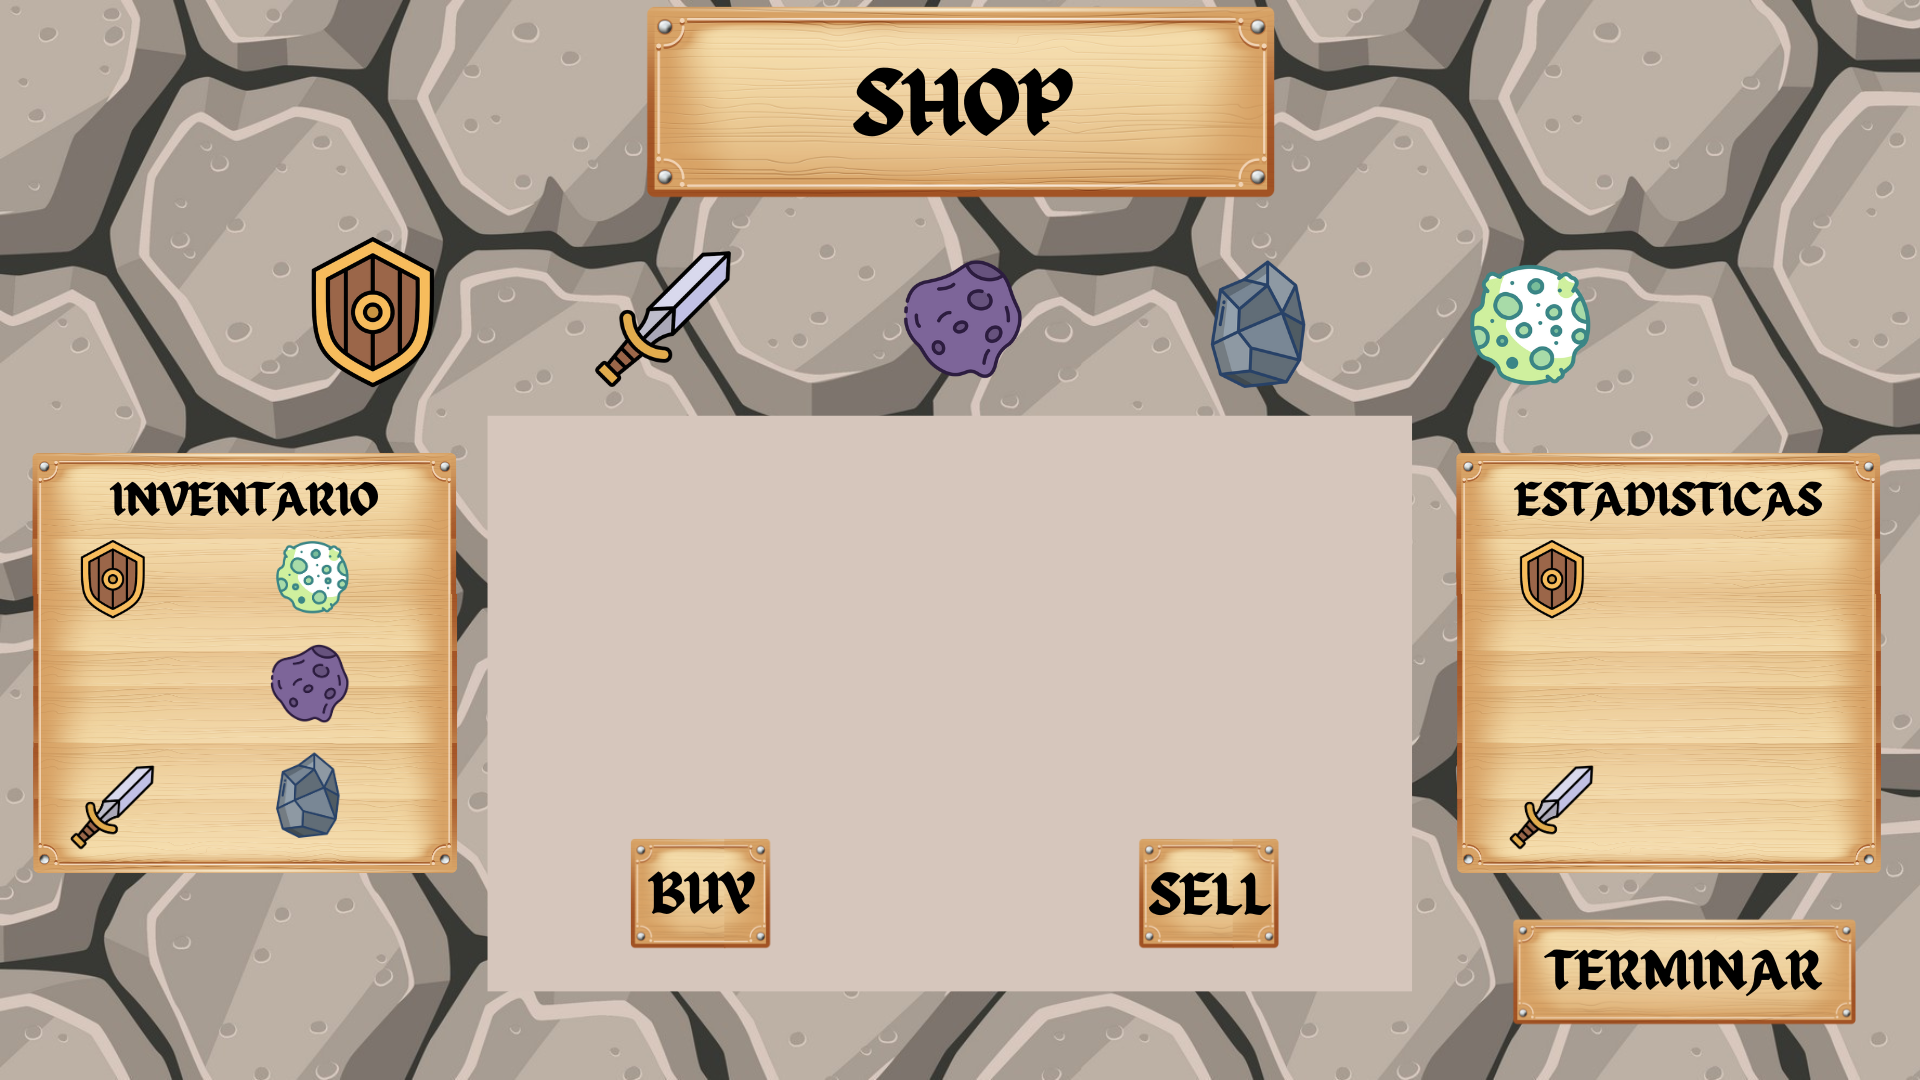
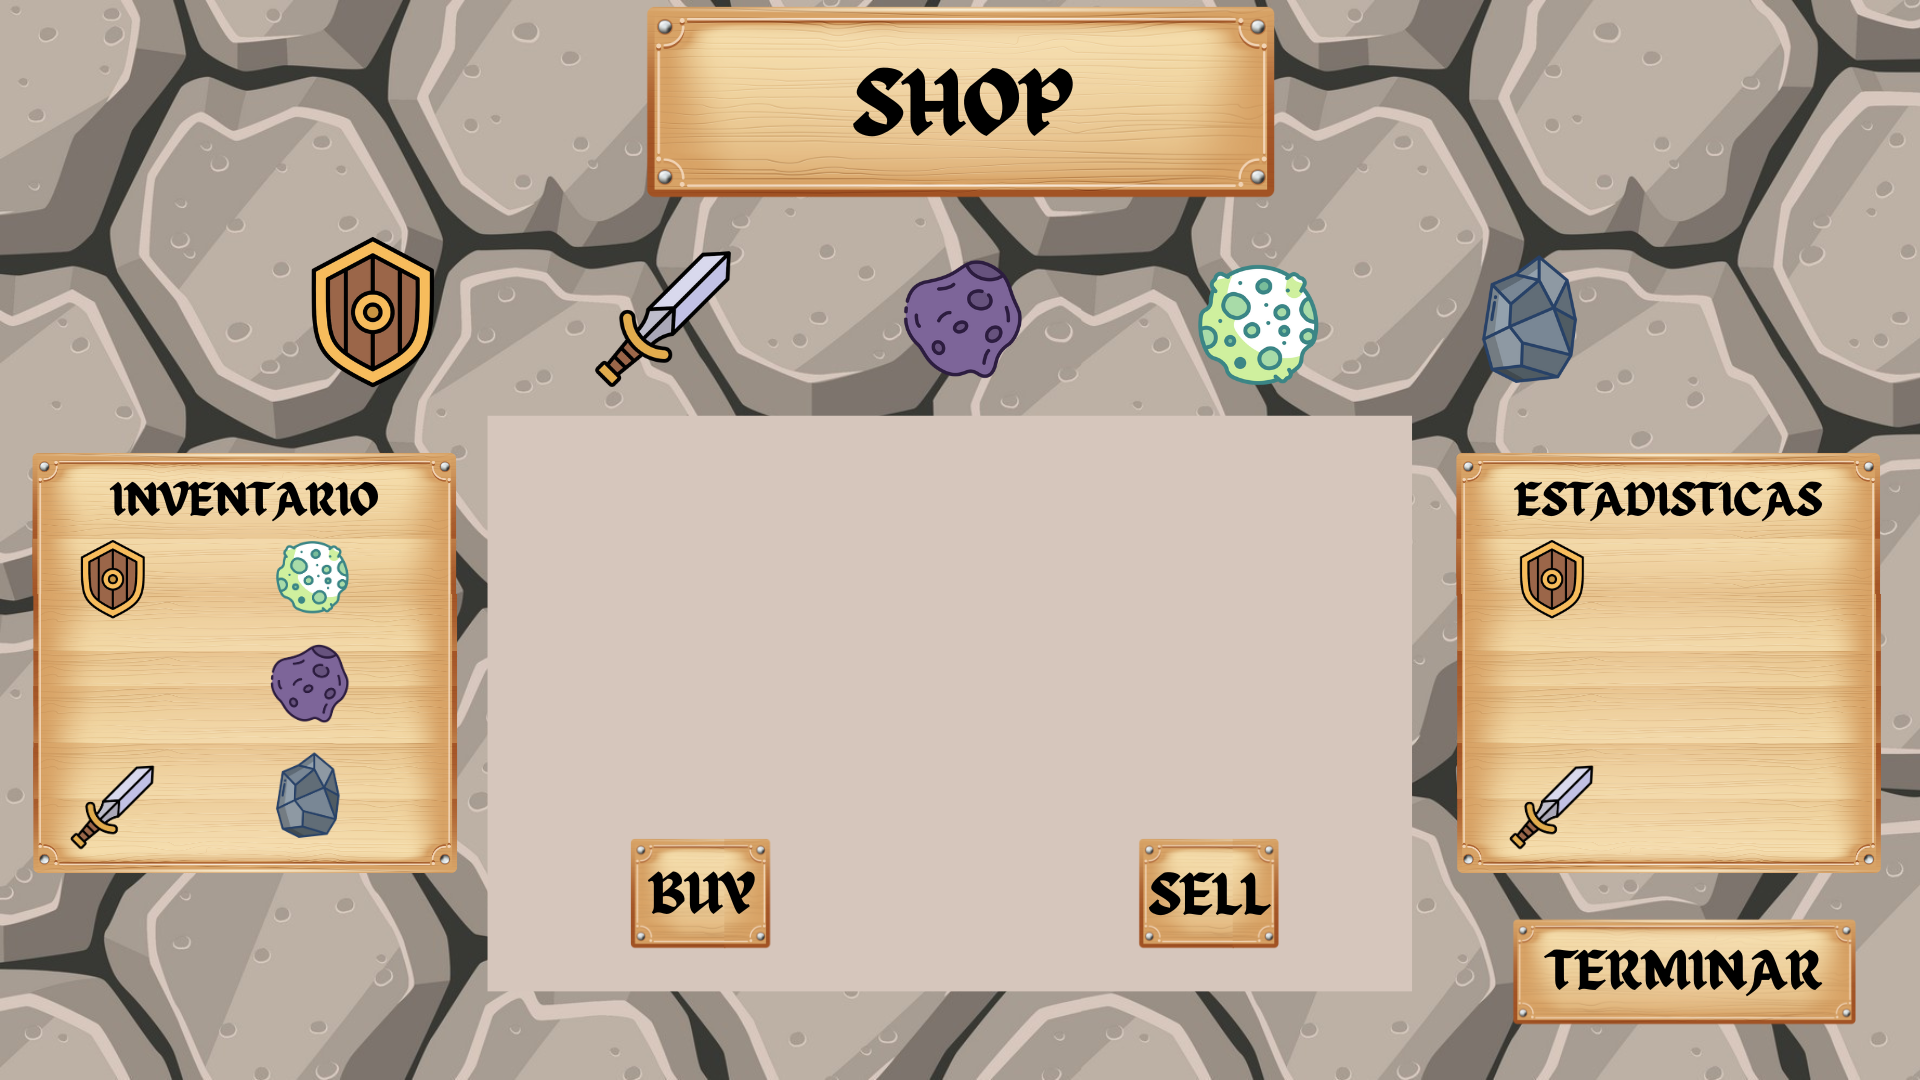
Conexion de pausa con juego, pantalla de ganador y se agrego el calculo de ganador. (Las pantallas fueron modificadas por javier)

Changed region(s): [[0.75, 0.2444, 0.8438, 0.3667], [0.625, 0.2444, 0.6875, 0.3667]]

diff --git a/gameScreens.py b/gameScreens.py
@@ -1,4 +1,5 @@
-import drawFunctions, pygame
+import drawFunctions, pygame, proporciones, params,scoreBoard,math, sys
+from button import Button
 def pantallaEmpiezaJuego(screen):
     drawFunctions.backgroundDraw(screen,'Pantallas/juegoPrev.png')
     run = True
@@ -11,3 +12,140 @@ def pantallaEmpiezaJuego(screen):
                 if event.key == pygame.K_SPACE:
                     run = False
         pygame.display.update()
+        
+def controlesPausa(screen):
+    run = True
+    background = pygame.Surface((screen.get_width(),screen.get_height()))
+    drawFunctions.backgroundDraw(background,"Pantallas/ControlesPausa.png")
+    while run:
+        for event in pygame.event.get():
+            if event.type == pygame.QUIT:
+                run = False
+                pygame.quit()
+            if event.type == pygame.KEYDOWN:
+                if event.key == pygame.K_ESCAPE:
+                    run = False
+        screen.blit(background,(0,0))
+        pygame.display.update()
+    
+def pauseScreen(screen):
+    run = True
+    pantalla = 5
+    background = pygame.Surface((screen.get_width(),screen.get_height()))
+    drawFunctions.backgroundDraw(background,"Pantallas/Pausa.png")
+    bttns = crearBotonPausa(proporciones.listaProporciones)
+    while run:
+        for event in pygame.event.get():
+            if event.type == pygame.QUIT:
+                pygame.quit()
+                sys.exit()
+            #checkResize(event)
+            for btns in bttns:
+                for btn in btns:
+                    if btn.check_click(event):
+                        #controles menu
+                        if pantalla == 5:
+                            if btn.item == 15:
+                                print('Vuelve al juego')
+                                return None
+                            elif btn.item == 16:
+                                print('Vuelve al menu')
+                                return 4
+                            elif btn.item == 17:
+                                controlesPausa(screen)
+                                print('Controles pausa')
+                                #return 1
+                                pass
+                            elif btn.item == 18:
+                                print('salir')
+                                return -1
+        screen.blit(background,(0,0))
+        pygame.display.update()
+    
+def ganadorScreen(screen, colorGanador):
+    run = True
+    tanqueGanador = imgTankWinner(colorGanador,0.07)
+    background = pygame.Surface((screen.get_width(),screen.get_height()))
+    drawFunctions.backgroundDraw(background,"Pantallas/Ganador.png")
+    bttns = crearBotonPausa(proporciones.listaProporciones)
+    pantalla = 2
+    while run:
+        for event in pygame.event.get():
+            if event.type == pygame.QUIT:
+                pygame.quit()
+                sys.exit()
+            #checkResize(event)
+            for btns in bttns:
+                for btn in btns:
+                    if btn.check_click(event):
+                        #controles menu
+                       if pantalla == 2:
+                            if btn.item == 2:
+                                ##print('Volver al menu')
+                                return 4
+                                
+                            elif btn.item == 3:
+                                ##print('Cierra el juego')
+                                return -1
+        screen.blit(background,(0,0))
+        screen.blit(tanqueGanador.surfaceTank,(screen.get_width()*0.46,screen.get_height()*0.65))
+        pygame.display.update()
+            
+def crearBotonPausa(listaProporciones):
+    #resizeButtons
+    listaBotonesPantallas = []
+    pantalla = []
+    ID = 0
+    x = 0
+    print(x)
+    for screen in listaProporciones:
+        for prop in screen:
+            boton = Button(prop[x],prop[x+1],prop[x+2],prop[x+3],ID)
+            pantalla.append(boton)
+            ID+=1
+        listaBotonesPantallas.append(pantalla)
+        pantalla=[]
+    return listaBotonesPantallas
+
+class imgTankWinner:
+    def __init__(self,color,tankProportion):
+        self.WIDTH = params.size*16
+        self.HEIGHT = params.size*9
+        self.xpos = 0
+        self.ypos = 0
+        self.angulo = 0
+        self.color = color
+        self.xCanon1 = 0
+        self.yCanon1 = 0
+        self.xCanon2 = 0
+        self.yCanon2 = 0
+
+        self.tankProportion = tankProportion
+        self.surfaceTank = pygame.Surface((self.WIDTH*self.tankProportion, self.HEIGHT*self.tankProportion))
+        self.x = int(self.surfaceTank.get_width()*0.5)
+        self.y = int(self.surfaceTank.get_height()*0.8)
+        self.width = int(self.surfaceTank.get_width()*0.55)
+        self.height = int(self.surfaceTank.get_height()*0.55)
+        self.alphaColor = (255,0,255)
+        self.surfaceTank.fill(self.alphaColor)
+        self.surfaceTank.set_alpha()
+        self.surfaceTank.set_colorkey(self.alphaColor)
+        self.longitud = int(self.surfaceTank.get_width()*0.12) #largo del cañon
+        self.xCanon1 =self.x #coordenadas del cañon
+        self.yCanon1  = (self.y - self.height) - self.height/4
+        self.xCanon2 = (self.xCanon1 + self.longitud * math.cos(math.radians(self.angulo)))
+        self.yCanon2 = (self.yCanon1 - self.longitud * math.sin(math.radians(self.angulo)))
+        self.draw_tank()
+        
+    def draw_tank(self):
+        pygame.draw.polygon(self.surfaceTank, self.color, ((self.x, self.y), (self.x - self.width/2, self.y), (self.x - self.width/2, self.y - self.height),(self.x + self.width/2, self.y - self.height),(self.x + self.width/2, self.y),(self.x, self.y))) #rectangulo inicial
+        pygame.draw.polygon(self.surfaceTank, self.color, ((self.x, self.y - self.height), (self.x - self.width/3, self.y - self.height), (self.x - self.width/3, (self.y- self.height) - self.height/3),(self.x + self.width/3, (self.y- self.height) - self.height/3),(self.x + self.width/3, (self.y- self.height)))) #rectangulo donde estara el cañon
+        pygame.draw.circle(self.surfaceTank, self.color, ((self.x - self.width/2, self.y+1 - self.height/2)), self.height/2 + 1) #circunferencia de la izquierda
+        pygame.draw.circle(self.surfaceTank, self.color, ((self.x + self.width/2, self.y+1 - self.height/2)), self.height/2 + 1) #circunferencia de la derecha
+        pygame.draw.line(self.surfaceTank, self.color, (self.xCanon1, self.yCanon1), (self.xCanon2, self.yCanon2), int(self.surfaceTank.get_height()*0.04)) #cañon
+
+# pygame.init()
+# width = params.size*16
+# height = params.size*9
+# screen = pygame.display.set_mode((width,height))
+# print(ganadorScreen(screen,(255,0,0)))

diff --git a/functions.py b/functions.py
@@ -1,4 +1,4 @@
-import math, params, player, nTank, random, runGame, gameScreens, drawFunctions
+import math, params, player, nTank, random, runGame, gameScreens, drawFunctions, scoreBoard
 import pygame,sys,runShop
 from button import Button
 from createMap import Map
@@ -315,6 +315,7 @@ def run(img,propBotonesPantalla,pantalla):
             
         elif pantalla == 12:
             ##print('Juego')
+            exitCmd = 0
             window = params.screen
             partidosActuales = 0
             listaJugadores = []
@@ -329,14 +330,50 @@ def run(img,propBotonesPantalla,pantalla):
                 runShop.openShop(listaJugadores,ia)
                 gameScreens.pantallaEmpiezaJuego(window)
                 game = runGame.gameLogic(window,listaJugadores,params.mapa)
-                game.run(clock)
+                exitCmd = game.run(clock)
+                if exitCmd == -1:
+                    return -1
+                if exitCmd == 4:
+                    return 4
                 partidosActuales += 1
-            return 4
+            actualizarKDAFinal(listaJugadores)
+            summary = scoreBoard.scoreBoardShow(listaJugadores,window, devolverColores(variableReseteo),"Pantallas/scorePartidaGlobal.png",True)
+            summary.sb_run()
+            return gameScreens.ganadorScreen(window,variableReseteo[determinarGanador(listaJugadores)][0])
+        
         else:
             ##print(pantalla)
             params.screen.blit(background, (0, 0))
             pygame.display.flip()
             clock.tick(60)
+
+def determinarGanador(listaJugadores):
+    listaKD = []
+    mayorBajas = listaJugadores[0]
+    for i in range(len(listaJugadores)):
+        if listaJugadores[i].generalkda[0] > mayorBajas.generalkda[0]:
+            mayorBajas = listaJugadores[i]
+    for i in range(len(listaJugadores)):
+        if listaJugadores[i].generalkda[0] == mayorBajas.generalkda[0]:
+            listaKD.append(listaJugadores[i])
+    for i in range(len(listaKD)):
+        if listaKD[i].generalkda[1] < mayorBajas.generalkda[1]:
+            mayorBajas = listaKD[i]
+    for i in range(len(listaJugadores)):
+        if mayorBajas == listaJugadores[i]:
+            return i
+def devolverColores(listaColores):
+    colores = []
+    for i in range(len(listaColores)):
+        colores.append(listaColores[i][0])
+    return colores
+
+def actualizarKDAFinal(listaJugadores):
+    for i in range(len(listaJugadores)):
+        listaJugadores[i].generalkda[0] += listaJugadores[i].kda[0]
+        listaJugadores[i].generalkda[1] += listaJugadores[i].kda[1]
+        listaJugadores[i].kda[0] = 0
+        listaJugadores[i].kda[1] = 0
 
 def crearButtons(listaProporciones):
     #resizeButtons

diff --git a/runGame.py b/runGame.py
@@ -1,5 +1,5 @@
 from random import randint
-import pygame,nTank,nTerrain,sys, params, drawFunctions, player, random, playerPhysics, ninfoBlock, functions, nProyectil, scoreBoard, npowerBar
+import pygame,nTank,nTerrain,sys, params, drawFunctions, player, random, playerPhysics, ninfoBlock, functions, nProyectil, scoreBoard, npowerBar, gameScreens
 
 class gameLogic:
     
@@ -123,15 +123,15 @@ class gameLogic:
         if len(self.listaJugadores) == 1:
             #print("jugador gano")
             #mostrar pantalla de que el jugador gano
-            #summary = scoreBoard.scoreBoard(self.listaPlayers,self.screen, self.coloresJuagadores,"imgs/pantallas/scorePartida.png",False)
-            #summary.sb_run()
-            #summary = None
+            summary = scoreBoard.scoreBoardShow(self.listaPlayers,self.screen, self.coloresJuagadores,"Pantallas/scorePartidaRound.png",False)
+            summary.sb_run()
+            summary = None
             return False
         elif self.cantidadbullets <= 0:
             #print("jugadores sin balas")
-            #summary = scoreBoard.scoreBoard(self.listaPlayers,self.screen, self.coloresJuagadores,"imgs/pantallas/scorePartida.png",False)
-            #summary.sb_run()
-            #summary = None
+            summary = scoreBoard.scoreBoardShow(self.listaPlayers,self.screen, self.coloresJuagadores,"Pantallas/scorePartidaRound.png",False)
+            summary.sb_run()
+            summary = None
             
             #mostrar pantalla de que se los jugadores se quedaron sin balas
             return False
@@ -337,6 +337,12 @@ class gameLogic:
                                     self.listaJugadores[turnos[0]].turnoTanque(False)
                                     turnos[0] = -1
                                 if event.key == pygame.K_ESCAPE:
+                                    exitCmnd = 0
+                                    exitCmnd = gameScreens.pauseScreen(self.screen)
+                                    if exitCmnd == -1:
+                                        return -1
+                                    if exitCmnd == 4:
+                                        return 4
                                     pass
                                     #print('pausa') #yo (mariano) lo arreglo dsps
                         if pressed[pygame.K_LEFT]:

diff --git a/nProyectil.py b/nProyectil.py
@@ -54,14 +54,14 @@ class Projectile():
             
         #tipo de proyectil 2
         elif self.typeBullet == 4: #80mm
-            cargarProyectil(self.surf,"items/80mmStone.png",1,1,(0,0))
+            cargarProyectil(self.surf,"items/60mmStone.png",1,1,(0,0))
             pygame.draw.circle(self.surf, (0,0,0), (int(self.surf.get_width()/2),int(self.surf.get_height()/2)), 2)
             self.blastRadius = int(self.WIDTH*0.05)
             self.DMG = 40
             
         #tipo de proyectil 3
         elif self.typeBullet == 5: #60mm
-            cargarProyectil(self.surf,"items/60mmStone.png",0.6,0.6,(0,0))
+            cargarProyectil(self.surf,"items/80mmStone.png",0.6,0.6,(0,0))
             pygame.draw.circle(self.surf, (0,0,0), (int(self.surf.get_width()/2),int(self.surf.get_height()/2)), 2)
             self.blastRadius = int(self.WIDTH*0.03)
             self.DMG = 30

diff --git a/scoreBoard.py b/scoreBoard.py
@@ -40,7 +40,7 @@ class imgTank:
         pygame.draw.line(self.surfaceTank, self.color, (self.xCanon1, self.yCanon1), (self.xCanon2, self.yCanon2), int(self.surfaceTank.get_height()*0.04)) #cañon
         
     
-class scoreBoard():
+class scoreBoardShow():
     def __init__(self,listaJugadores, window,colors,ruta,general):
         self.WIDTH = params.size*16
         self.HEIGHT = params.size*9
